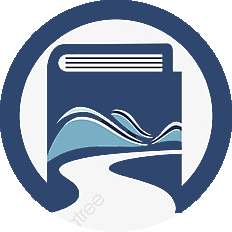
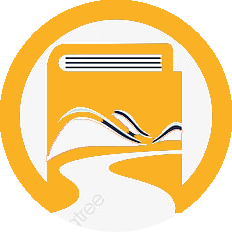
product page

diff --git a/public/css/app.css b/public/css/app.css
@@ -19,7 +19,7 @@ main{
 footer{
    text-align: center;
    background:#303036;
-   color:#dee2e6;
+   color:white;
    height:200px;
    /* position: absolute; */
 }
@@ -64,7 +64,7 @@ color: aqua;
 .footer .footer-bottom{
 
   background:#303036;
-  color:#df70cc;
+  color:grey;
   font-size:medium;
   height:50px;
   width: 100%;
@@ -81,17 +81,18 @@ color: aqua;
   text-align: center;
   text-decoration: none;
   margin: 5px 2px;
+  color:#fab124;
 }
 .fa-search{
   display: row;
 }
 .fa-instagram {
  
-  color: rgb(79, 69, 165);
+  color: #fab124;
 }
 .fa-facebook {
  
-  color: rgb(76, 90, 212);
+  color: #fab124;
 }
 :root {
   --blue: #3490dc;
@@ -158,7 +159,7 @@ body {
   line-height: 1.6;
   color: #212529;
   text-align: left;
-  background-color: #becddb;  
+  background-color: #fab124;  
  
 }
 
@@ -4554,7 +4555,7 @@ input[type=button].btn-block {
 
 .nav-tabs .nav-link.active,
 .nav-tabs .nav-item.show .nav-link {
-  color: #495057;
+  color: white;
   background-color: #f8fafc;
   border-color: #dee2e6 #dee2e6 #f8fafc;
 }

diff --git a/public/css/product.css b/public/css/product.css
@@ -2,11 +2,11 @@
 body {
 	margin: 0;
 	padding: 0;
-	color: #666;
+	color: #222a3f;
 
 	font-size: 20px;
 	line-height: 1.4em; 
-	background-color: #f7f7f7;
+	background-color: #fab124; 
 
 	background-position: top;
 }
@@ -23,7 +23,7 @@ hr{
 }
 
 table, th{
-	border-right:0.5px dotted rgb(119, 119, 119);
+	border-right:0.5px dotted rgb(226, 224, 223);
 	border-collapse: collapse;
 	height:50px;
 	width:1250px;
@@ -33,7 +33,7 @@ table, th{
 
   a{
 	font-size: 18px;
-	color: rgb(138, 131, 141);
+	color: white;
 
   }
 
@@ -47,3 +47,13 @@ table, th{
     margin-right: auto;
    
   }
+
+  .ff{
+	  color:white;
+  }
+
+  .bb{
+	  background-color: #fab124;
+  }
+
+  

diff --git a/resources/views/products.blade.php b/resources/views/products.blade.php
@@ -15,23 +15,23 @@
        <th id="th"> <a href="{{route('products')}}">All</a></th>
 
         @foreach($categories as $category)
-    <th>    <a href="{{route('products',['category'=>$category->id])}}">{{$category->name}}</a>
+    <th >    <a href="{{route('products',['category'=>$category->id])}}" >{{$category->name}}</a>
 </th>
         @endforeach
 </table>
 
 </div> <!-- END of sidebar -->
 
-<hr color="grey" ></hr>
+<hr color="white" ></hr>
 
 <br>
 
 @if($categoryName==null)
-                <h2>Product</h2>
+                <h2 class="ff">Product</h2>
                 @else
                 @foreach ($categoryName as $CName)
 
-                <h2>{{$CName->name}}</h2>
+                <h2 class="ff">{{$CName->name}}</h2>
                 @endforeach
                 @endif
 
@@ -41,24 +41,23 @@
                              
                  <div class="row">
                 @foreach($products as $product)              
-                    <div class="col-sm-4">
+                    <div class="col-sm-4 bb">
                         <div class="card h-100">
-                            <div class="card-body">
+                            <div class="card-body " >
                                     <h5 class="card-title" >{{$product->bookName}}</h5>  
                                     <br>                          
                                      <a href="{{ route('product.detail', ['id' => $product->id]) }}"><img src="{{ asset('images/') }}/{{$product->image}}" alt="" class="img-fluid" width="250px" ></a>
                                      <br>
-                                     <div class="card-heading">RM {{$product->price}} <button type="submit" style="float:right;" class="btn btn-danger btn-xs">AddToCart</button>
+                                     <div class="card-heading " >RM {{$product->price}} <button type="submit" style="float:right; " class="btn btn-danger btn-xs ff" color="white"> <a class="ff" href="{{ route('product.detail', ['id' => $product->id]) }}" font-color="white">See More</a></button>
+                                    
                                     </div>
                             </div>
                         </div>
                     
                     </div>
-                   
+                   <br>
                 @endforeach          
 </div>
-<div class="text-center">
-	{{ $products->links() }}
- </div> 
+
  </div>   
 @endsection

diff --git a/resources/views/userProduct.blade.php b/resources/views/userProduct.blade.php
@@ -20,8 +20,8 @@
 
          </style>
      
-        <div>
-        <img src="{{ asset('images/back.jpg')}} " height="615px" width="100%">
+        <div >
+        <img src="{{ asset('images/back.png')}} " height="615px" width="100%">
         </div>
         <br>
 
@@ -43,16 +43,18 @@
       </div>
     </div>
 <br>
-<div><h3 style="color:drak-grey;">&nbsp;Recommend</h3></div>
+<div ><h3 style="color:white;">&nbsp;&nbsp;&nbsp;&nbsp;Recommend</h3></div>
+
 <br>
       <div class="row text-center">
         @foreach ($products as $product)
             <div class="column">
-            <td>&nbsp;&nbsp;&nbsp;&nbsp;&nbsp;&nbsp;&nbsp;&nbsp;&nbsp;</td>
+            <td>&nbsp;&nbsp;&nbsp;&nbsp;&nbsp;&nbsp;&nbsp;&nbsp;&nbsp;&nbsp;&nbsp;</td>
                 <a href="{{ route('product.detail', ['id' => $product->id]) }}"><img src="{{ asset('images/') }}/{{$product->image}}" alt="product" width="150" height="220" ></a>
                 <td>&nbsp;&nbsp;&nbsp;&nbsp;&nbsp;&nbsp;&nbsp;&nbsp;&nbsp;</td>
              
-                <div>{{ $product->name }}</a>RM{{ $product->price }}</div>
+                <div>{{ $product->name }}</a></div>
+                <br>
             </div>
         @endforeach
 

diff --git a/resources/views/layouts/app.blade.php b/resources/views/layouts/app.blade.php
@@ -135,14 +135,16 @@
 </body>
 <footer class="footer">
       <div class="footer-content">
+      <br>
           <h3>Green&River Book Shop</h3>
           <p>Paragraph for Green&River Book Shop(still havent idea)</p>
-          <p>Email  :goh09282000@gmail.com & linnie0331@gmail.com</p>
+          <p>Email  :goh09282000@gmail.com</p>
           <ul class="socials">
               <li>   <a href="#"><i  class="fa fa-facebook"></i></a></li>
               <li>   <a href="#"><i  class="fa fa-twitter"></i></a></li>
-              <li>   <a href="#"><i  class="fa fa-google-plus"></i></a></li>
+              <li>   <a href="#"><i  class="fa fa-google-plus" ></i></a></li>
               <li>   <a href="#"><i  class="fa fa-youtube"></i></a></li>
+</ul>
       </div>
 
       <div class="footer-bottom">
